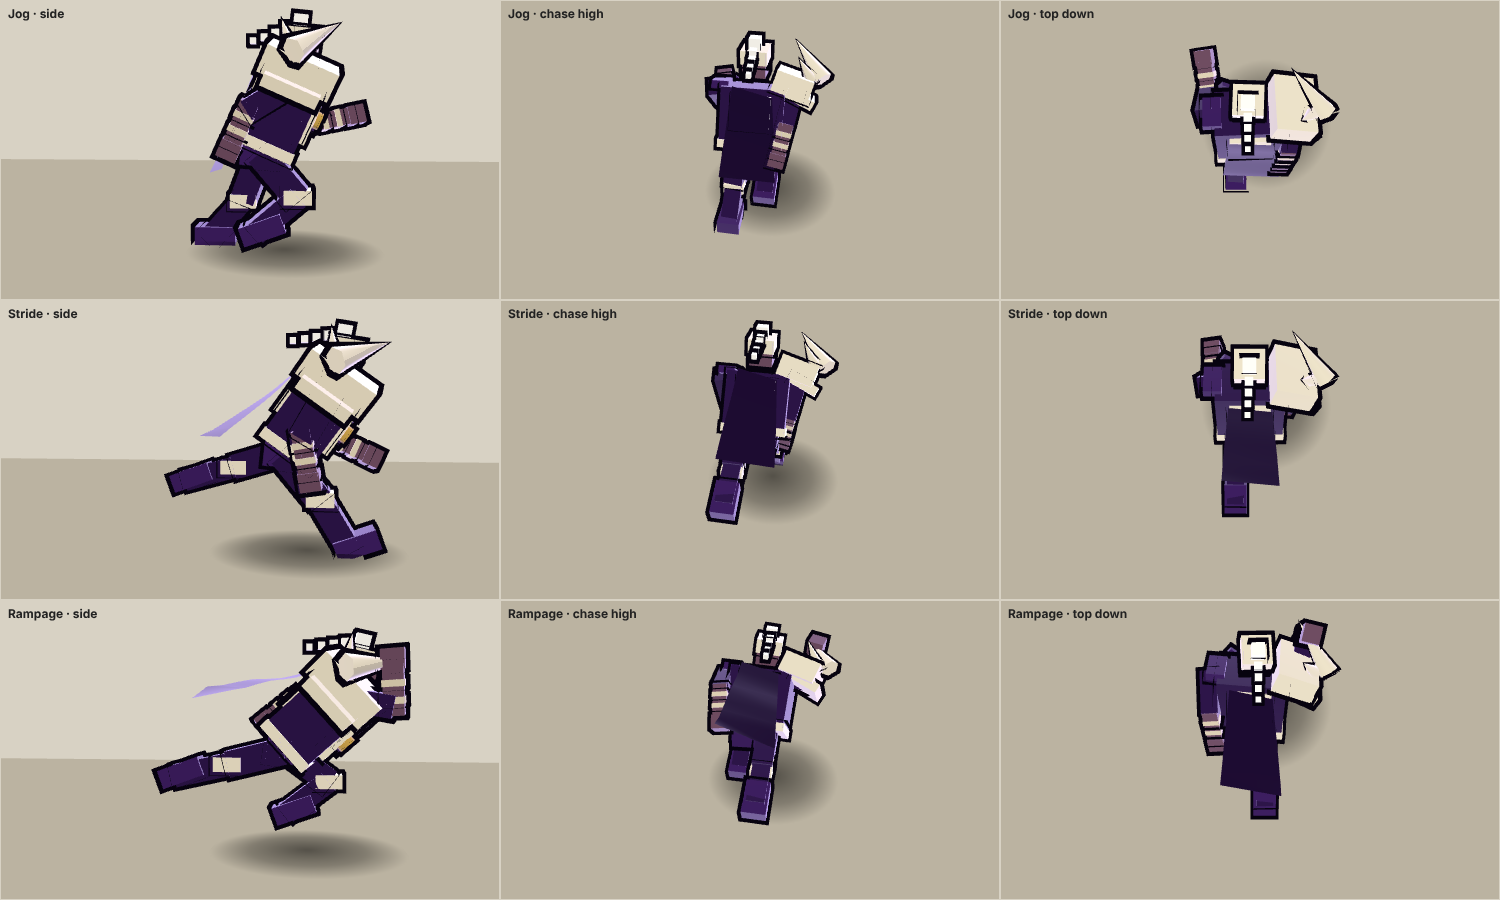
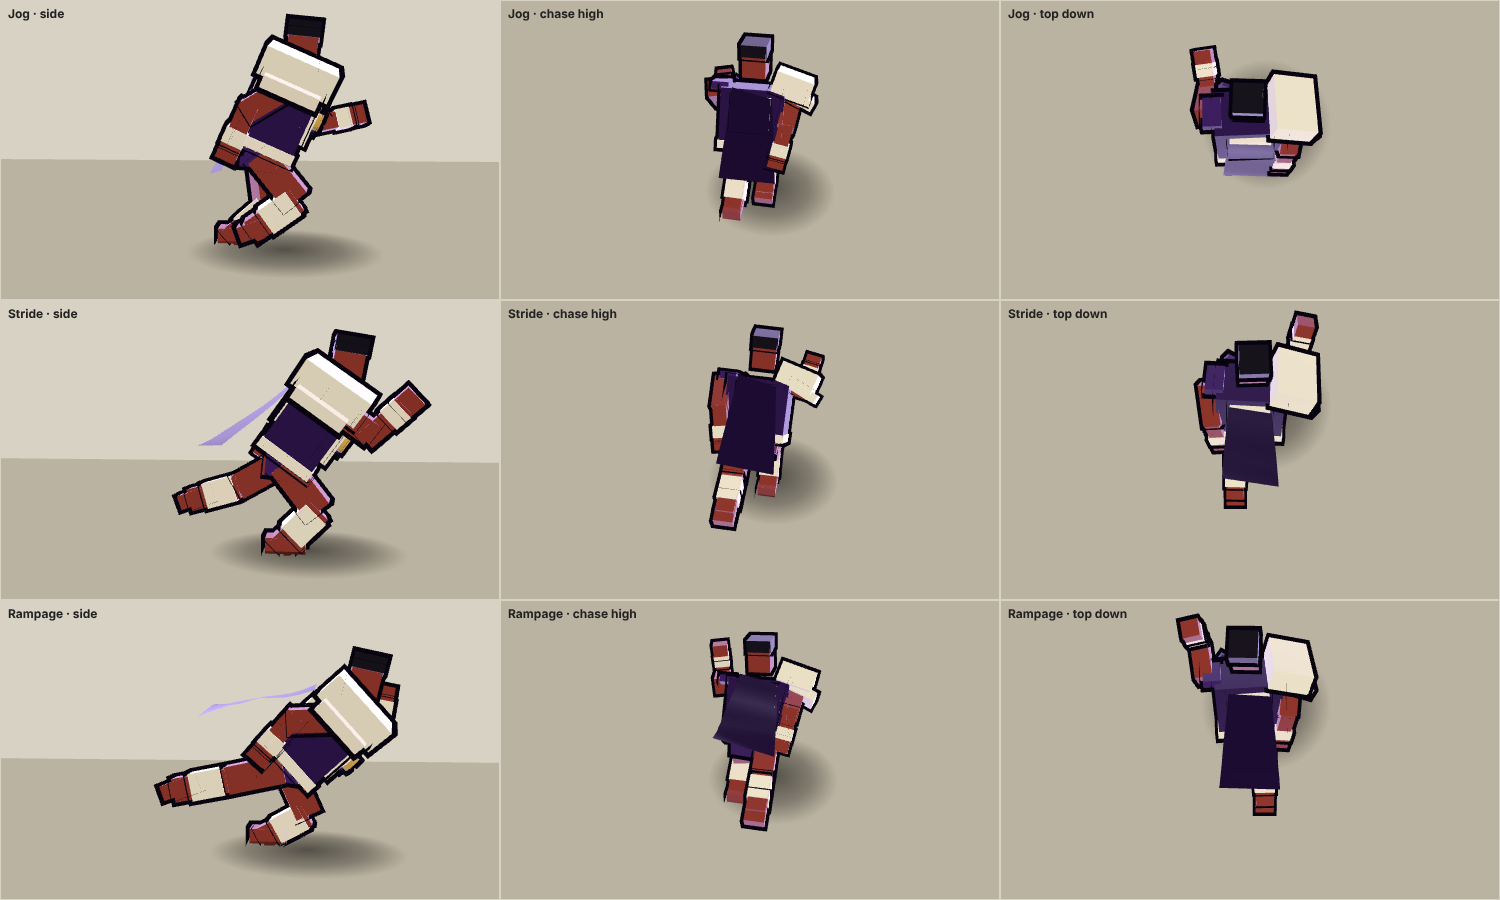
Chopper-feed title screen; giant recoloured to Mike's title art
Title: the live attract chase shot from behind and above with the giant in
the right third under the spotlight, GIANT wordmark, tagline, PRESS START
and a LIVE traffic-report bug with the real (invented) road name; the
camera glides into the chase on Start. Giant: red skin, black flat-top,
bare limbs, cream cuffs and greaves, bare feet, one smooth pauldron.

Claude-Session: https://claude.ai/code/session_01U6CEtzBnsd5sKqjjyRSivB

diff --git a/src/render/giant.ts b/src/render/giant.ts
@@ -102,7 +102,7 @@ export class GiantView {
     belt.position.y = 0.12;
     this.torso.add(chest, plate, back, belt);
 
-    // ONE horned pauldron (the top-down silhouette): a big plate over a lame, two horns sweeping back.
+    // ONE smooth pauldron (the top-down silhouette, Mike's title art): a big plate over a lame.
     const S = PAULDRON_SIDE;
     const pauldron = box(1.15, 0.44, 0.8, PALETTE.giantBone);
     pauldron.position.set(0, 1.46, S * 0.82);
@@ -110,12 +110,6 @@ export class GiantView {
     const lame = box(0.9, 0.2, 0.62, PALETTE.giantBone);
     lame.position.set(0, 1.18, S * 0.98);
     lame.rotation.x = S * 0.42;
-    const horn = new THREE.Mesh(new THREE.ConeGeometry(0.2, 1.1, 6), rimToon(PALETTE.giantBone));
-    horn.position.set(0.05, 1.98, S * 1.12);
-    horn.rotation.set(S * -0.7, 0, -0.45);
-    const horn2 = new THREE.Mesh(new THREE.ConeGeometry(0.13, 0.62, 6), rimToon(PALETTE.giantBone));
-    horn2.position.set(-0.38, 1.82, S * 1.05);
-    horn2.rotation.set(S * -0.55, 0, 0.6);
     // The bare shoulder carries only the cape strap.
     const pad = box(0.62, 0.16, 0.36, PALETTE.giantArmor);
     pad.position.set(0, 1.36, -S * 0.72);
@@ -126,23 +120,22 @@ export class GiantView {
     const clasp = new THREE.Mesh(new THREE.CylinderGeometry(0.15, 0.15, 0.09, 10), rimToon(PALETTE.giantClasp));
     clasp.rotation.z = Math.PI / 2;
     clasp.position.set(0.62, 0.86, S * 0.5);
-    this.torso.add(pauldron, lame, horn, horn2, pad, strap, clasp);
+    this.torso.add(pauldron, lame, pad, strap, clasp);
 
     // Arms: shoulder + elbow, so the run can hold a bent-arm guard (fists forward at the chest).
     for (const [arm, elbow, z] of [[this.armL, this.elbowL, 0.86], [this.armR, this.elbowR, -0.86]] as const) {
       arm.position.set(0, 1.25, z);
-      const upper = box(0.34, 0.85, 0.34, PALETTE.giantBody);
+      const upper = box(0.36, 0.85, 0.36, PALETTE.giantSkin);
       upper.position.y = -0.42;
       elbow.position.y = -0.85;
       const fore = box(0.3, 0.75, 0.3, PALETTE.giantSkin);
       fore.position.y = -0.25;
-      const band1 = box(0.33, 0.1, 0.33, PALETTE.giantBand);
-      band1.position.y = -0.1;
-      const band2 = band1.clone();
-      band2.position.y = -0.35;
+      // Cream wrist cuff (title art).
+      const band1 = box(0.36, 0.26, 0.36, PALETTE.giantBone);
+      band1.position.y = -0.45;
       const fist = box(0.34, 0.3, 0.34, PALETTE.giantSkin);
       fist.position.y = -0.7;
-      elbow.add(fore, band1, band2, fist);
+      elbow.add(fore, band1, fist);
       arm.add(upper, elbow);
       this.torso.add(arm);
     }
@@ -152,12 +145,11 @@ export class GiantView {
     this.torso.add(this.head);
     const skull = box(0.5, 0.55, 0.5, PALETTE.giantSkin);
     skull.position.y = 0.28;
-    const helm = box(0.56, 0.3, 0.56, PALETTE.giantBone);
-    helm.position.y = 0.45;
-    const knot = box(0.24, 0.26, 0.24, PALETTE.giantHair);
-    knot.position.set(-0.08, 0.72, 0);
-    this.head.add(skull, helm, knot);
-    for (let i = 0; i < 4; i++) {
+    // Black flat-top (title art); no helm, no braid.
+    const hair = box(0.54, 0.26, 0.54, PALETTE.giantHair);
+    hair.position.y = 0.6;
+    this.head.add(skull, hair);
+    for (let i = 0; i < 0; i++) {
       const b = box(0.15 - i * 0.015, 0.15 - i * 0.015, 0.15 - i * 0.015, PALETTE.giantHair);
       this.braid.push(b);
     }
@@ -169,10 +161,11 @@ export class GiantView {
       return new THREE.Mesh(g, rimToon(color));
     };
     for (let i = 0; i < 2; i++) {
-      const thigh = seg(0.44, PALETTE.giantBody);
-      const shin = seg(0.38, PALETTE.giantBody);
-      const knee = box(0.46, 0.24, 0.46, PALETTE.giantBone);
-      const boot = box(0.72, 0.32, 0.5, PALETTE.giantArmor);
+      const thigh = seg(0.46, PALETTE.giantSkin);
+      const shin = seg(0.4, PALETTE.giantSkin);
+      // Cream greave over the shin (title art); bare feet.
+      const knee = box(0.46, 0.55, 0.46, PALETTE.giantBone);
+      const boot = box(0.66, 0.26, 0.42, PALETTE.giantSkin);
       this.legs.add(thigh, shin, knee, boot);
       this.legParts.push({ thigh, shin, knee, boot });
     }
@@ -352,8 +345,9 @@ export class GiantView {
       const P = this.legParts[i];
       this.placeSegment(P.thigh, L.hip, L.knee);
       this.placeSegment(P.shin, L.knee, L.foot);
-      P.knee.position.set(L.knee.x, L.knee.y, L.knee.z);
-      P.knee.rotation.set(0, -p.heading, 0);
+      // The greave rides the upper shin, along it.
+      P.knee.position.set(L.knee.x + (L.foot.x - L.knee.x) * 0.38, L.knee.y + (L.foot.y - L.knee.y) * 0.38, L.knee.z + (L.foot.z - L.knee.z) * 0.38);
+      P.knee.quaternion.copy(P.shin.quaternion);
       P.boot.position.set(L.foot.x + Math.cos(p.heading) * 0.12, Math.max(0.16, L.foot.y + 0.06), L.foot.z + Math.sin(p.heading) * 0.12);
       P.boot.rotation.set(0, -p.heading, L.planted ? 0 : 0.35);
     }

diff --git a/src/game.ts b/src/game.ts
@@ -15,7 +15,7 @@ import { ViewerVideo } from './render/pip';
 import { Coverage } from './broadcast/coverage';
 import VIEWERS from './broadcast/viewers.json';
 import { measureSilhouette } from './render/silhouette';
-import { Newsroom, type Headline } from './broadcast/headlines';
+import { Newsroom, compass, type Headline } from './broadcast/headlines';
 import type { PropKind } from './sim/types';
 import { Gait } from './anim/gait';
 import { Audio } from './audio';
@@ -901,7 +901,7 @@ app = await createGameApp({
 });
 registerGlyphs(app.shell.production.glyphs);
 // Only what exists: no challenges or credits yet; the tagline is approved fiction (§21).
-app.ui.updateScreen('title', { subtitle: 'Giant At Large. Warn Your Friends.' });
+app.ui.updateScreen('title', { title: 'Giant', subtitle: 'Giant at large. Warn your friends.', choices: [{ id: 'start', label: 'Press Start' }] });
 app.ui.updateScreen('main-menu', { choices: [{ id: 'play', label: 'Play' }, { id: 'settings', label: 'Settings' }] });
 // Core settings drive the game: reduced motion, shake, vibration, volume.
 const applyCore = (c: CoreSettings) => {
@@ -1075,7 +1075,8 @@ function frame(now: number) {
     poseCam.position.set(t.x + rx * 9 + Math.cos(t.travel) * 0.5, 2.0, t.z + rz * 9 + Math.sin(t.travel) * 0.5);
     poseCam.lookAt(t.x + Math.cos(t.travel) * 0.5, 1.5, t.z + Math.sin(t.travel) * 0.5);
     renderer.render(scene, poseCam);
-  } else renderer.render(scene, rig.camera);
+  } else if (updateTitleShot(realDt, t)) renderer.render(scene, titleCam);
+  else renderer.render(scene, rig.camera);
   pip.render(renderer, scene);
   updateHud(realDt);
   updateGlyphs();
@@ -1108,6 +1109,51 @@ function updateGlyphs() {
     recapEl.dataset.fam = fam;
     hint.innerHTML = fam === 'touch' ? '' : `<kbd>${esc(glyph('move'))}</kbd> Move <kbd>${esc(glyph('accept'))}</kbd> Choose`;
   }
+}
+
+/**
+ * Title screen (Mike's chopper-feed direction): the attract broadcast behind the title is shot
+ * close from behind and above, the giant in the right third under the spotlight, the night look,
+ * a LIVE traffic-report bug. Leaving the title, the camera glides down into the chase.
+ */
+const titleCam = new THREE.PerspectiveCamera(TUNING.title.fov, 16 / 9, 0.5, 900);
+const titleTmp = { q: new THREE.Quaternion(), p: new THREE.Vector3(), m: new THREE.Matrix4(), up: new THREE.Vector3(0, 1, 0) };
+const titleBug = $('titlebug');
+const titleRoad = $('titleroad');
+let titleK = 0;
+let wasTitle = false;
+function updateTitleShot(dt: number, t: CameraTarget): boolean {
+  const T = TUNING.title;
+  const onTitle = attract && !!document.querySelector('#ui [data-screen-id="title"]');
+  document.documentElement.classList.toggle('title', onTitle);
+  if (onTitle !== wasTitle) {
+    wasTitle = onTitle;
+    if (onTitle) {
+      if (!forcedLook) lighting.setMode('night');
+    } else applyLook();
+  }
+  if (onTitle) {
+    titleK = 1;
+    const seg = sim.track.segmentAt(sim.giant.s);
+    titleRoad.textContent = `${seg.zoneName} ${compass(t.travel)}bound`;
+  } else titleK = Math.max(0, titleK - dt / T.glideTime);
+  titleBug.hidden = !onTitle;
+  if (titleK <= 0) return false;
+  // The shot, relative to his travel: behind, up, and off to his left, looking ahead past him.
+  const fx = Math.cos(t.travel), fz = Math.sin(t.travel);
+  const rx = -fz, rz = fx; // his right
+  const pos = titleTmp.p.set(t.x - fx * T.back - rx * T.left, T.height, t.z - fz * T.back - rz * T.left);
+  const look = new THREE.Vector3(t.x + fx * T.lookAhead - rx * T.lookLeft, T.lookHeight, t.z + fz * T.lookAhead - rz * T.lookLeft);
+  titleTmp.m.lookAt(pos, look, titleTmp.up);
+  const want = titleTmp.q.setFromRotationMatrix(titleTmp.m);
+  // Glide: ease from the chase camera to the title shot by titleK (1 = all title).
+  const k = titleK * titleK * (3 - 2 * titleK);
+  titleCam.position.lerpVectors(rig.camera.position, pos, k);
+  titleCam.quaternion.copy(rig.camera.quaternion).slerp(want, k);
+  titleCam.fov = rig.camera.fov + (T.fov - rig.camera.fov) * k;
+  titleCam.aspect = rig.camera.aspect;
+  titleCam.updateProjectionMatrix();
+  return true;
 }
 
 /** Render one frame now and measure the giant's silhouette (E2E / evidence). */

diff --git a/src/style.css b/src/style.css
@@ -337,3 +337,20 @@ html.attract #abilpop { display: none; }
 @keyframes gainpunch { 0% { transform: scale(1.25); } 100% { transform: none; } }
 html.attract #gainpop { display: none; }
 @media (prefers-reduced-motion: reduce) { #gainpop.show { animation: none; } }
+
+/* Title screen (Mike's chopper-feed direction): wordmark left, the live chase right, LIVE bug. */
+html.title #hud, html.title #abil, html.title #controls, html.title #camtag, html.title #btn-pause { display: none !important; }
+#ui [data-screen-id="title"].slu-screen { place-items: center start; padding: 0 0 0 clamp(20px, 7vw, 110px); background: linear-gradient(90deg, rgba(5, 3, 12, 0.88) 0%, rgba(5, 3, 12, 0.55) 38%, rgba(5, 3, 12, 0) 62%); }
+#ui [data-screen-id="title"] .slu-panel { background: none; border: 0; box-shadow: none; padding: 0; width: auto; max-width: min(92vw, 640px); overflow: visible; }
+#ui [data-screen-id="title"] .slu-header h1 { font: italic 900 clamp(84px, 17vw, 230px)/0.82 'Arial Black', 'Helvetica Neue', Impact, system-ui, sans-serif; letter-spacing: -0.03em; color: #f4ead6; text-transform: uppercase; margin: 0; transform: skewX(-6deg); text-shadow: 0 6px 30px rgba(0, 0, 0, 0.5); }
+#ui [data-screen-id="title"] .slu-header p { color: #f4ead6; opacity: 1; font-weight: 800; letter-spacing: 0.16em; text-transform: uppercase; font-size: clamp(12px, 1.6vw, 20px); margin: 14px 0 clamp(28px, 6vh, 64px) 4px; }
+#ui [data-screen-id="title"] .slu-choice { border: 0; background: none; padding: 0 0 0 4px; color: #f4ead6; }
+#ui [data-screen-id="title"] .slu-choice:hover, #ui [data-screen-id="title"] .slu-choice[data-focused="true"], #ui [data-screen-id="title"] .slu-choice:focus-visible { background: none; color: #f4ead6; outline: none; }
+#ui [data-screen-id="title"] .slu-choice-label { font-size: clamp(14px, 1.7vw, 22px); letter-spacing: 0.32em; animation: pressstart 1.6s ease-in-out infinite; }
+@keyframes pressstart { 50% { opacity: 0.35; } }
+@media (prefers-reduced-motion: reduce) { #ui [data-screen-id="title"] .slu-choice-label { animation: none; } }
+#titlebug { position: absolute; z-index: 45; top: calc(18px + env(safe-area-inset-top)); right: calc(22px + env(safe-area-inset-right)); display: grid; justify-items: end; gap: 2px; color: #f4ead6; font: 800 11px/1.2 ui-sans-serif, system-ui, sans-serif; letter-spacing: 0.14em; text-transform: uppercase; pointer-events: none; }
+#titlebug[hidden] { display: none; }
+#titlebug b { font-size: 24px; letter-spacing: 0.08em; display: flex; align-items: center; gap: 8px; padding-bottom: 6px; border-bottom: 1px solid rgba(244, 234, 214, 0.5); margin-bottom: 3px; }
+#titlebug b i { width: 15px; height: 15px; background: #d7263d; display: inline-block; }
+@media (max-width: 640px) { #ui [data-screen-id="title"].slu-screen { place-items: end start; padding-bottom: 12vh; background: linear-gradient(0deg, rgba(5, 3, 12, 0.9), rgba(5, 3, 12, 0) 70%); } }

diff --git a/src/tuning.ts b/src/tuning.ts
@@ -623,6 +623,19 @@ export const TUNING = {
     sirenHz: 2.2,
   },
 
+  /** Title screen chopper shot (Mike's visual direction): metres relative to the giant's travel. */
+  title: {
+    back: 14,
+    left: 6,
+    height: 12,
+    lookAhead: 7,
+    lookLeft: 6.5,
+    lookHeight: 1,
+    fov: 42,
+    /** Leaving the title, the camera glides down into the chase over this long (s). */
+    glideTime: 1.6,
+  },
+
   /** Input gestures (v0.3). */
   input: {
     /** Stick flick: crossing this x deflection fires one lane change; must return under release. */

diff --git a/index.html b/index.html
@@ -29,6 +29,7 @@
         <div id="chyron"><div class="kicker">SPOTTED</div><div class="text"><span>&nbsp;</span></div></div>
       </div>
       <div id="camtag" aria-hidden="true"></div>
+      <div id="titlebug" hidden aria-hidden="true"><b><i></i>LIVE</b><span>Traffic report</span><span id="titleroad"></span></div>
       <div id="controls" hidden aria-hidden="true"></div>
       <div id="abilpop" aria-live="polite"></div>
       <div id="abil" hidden aria-hidden="true"><b class="nm"></b><span class="key"></span><span class="cd"><i></i></span></div>

diff --git a/src/render/palette.ts b/src/render/palette.ts
@@ -39,8 +39,9 @@ export const PALETTE = {
   giantArmor: 0x3a1c5c,
   giantCape: 0x1c0b30,
   giantBone: 0xe6dcc3,
-  giantHair: 0xfaf7f0,
-  giantSkin: 0x6b4a5e,
+  giantHair: 0x16121a,
+  /** Mike's title-screen direction: red skin, black hair. */
+  giantSkin: 0x8a3329,
   giantBand: 0xd9ccb0,
   /** Model pass: the cape clasp under the pauldron, the one warm metal on him. */
   giantClasp: 0xc9a14a,

diff --git a/DECISIONS.md b/DECISIONS.md
@@ -4,6 +4,7 @@ Build-time decisions, working defaults for open questions (GDD §46), and deviat
 
 | Date | Decision | Why | Revisit |
 |---|---|---|---|
+| 2026-11-14 | **Chopper-feed title + giant recoloured to Mike's title art.** Title: the attract broadcast is shot close from behind and above (giant in the right third, night look, spotlight pool), "GIANT" wordmark, "Giant at large. Warn your friends.", a pulsing PRESS START, and a LIVE / TRAFFIC REPORT bug naming the road he's on (our invented zone names; the mockup's "I-608" reads like a real interstate, so it isn't used). Leaving the title, the camera glides into the chase over 1.6s. Numbers in `TUNING.title`. Giant: red skin (0x8a3329), black flat-top (no helm, topknot or braid), bare red arms and legs, cream wrist cuffs and greaves, bare feet, plum tunic and kilt, one smooth cream pauldron (**the horns are gone**, as in the art), clasp and strap kept. Silhouette test still passes (night Chase High 5.0:1). **Open:** is the game's name now "GIANT"? The title says GIANT; the repo, site and station stay Warn Your Friends / WYF until Mike says. Not done yet: the cape's cream Greek-key hem, the chopper silhouette in the corner. | Mike: "a Title Screen / Visual direction I think we should push for". | Mike |
 | 2026-11-14 | **Option B (Mike): the bulldozer is on.** `props.immovableChance` 0.2 from 250m, at most one per row, and rows still always leave a lane open. It bounces him at any tier (−1 tier, knock-back), so dodging matters at Rampage. Leap clears it; the Stare and Hijack ignore it. Bot: 2.4 bounces per run (was 1.7), Rampage share 41%, every seed reaches Rampage. **Camera fix:** in High Head-On at Rampage, the 15%-from-top framing rule and ≥2s of road ahead left no slack (soak min 1.90s), so High Head-On pulls out 110 → 122m (soak min back over 2s). E2E run check moved to seed 11: the dozer changed seed 10's road and the bot busted. Tier feed stays off. | Mike's call. | Mike's playtest |
 | 2026-11-14 | **Impact pass, feel only (option A built; B pending Mike).** Mike: hitting or dodging "doesn't have much impact". Causes found: (1) a smashed prop's view was deleted by `sync()` *before* its smash event ran, so cars vanished into a 0.1s debris puff; (2) Medium shake was 2px, the same as the footfall pulse; (3) dodging traffic scored nothing (near-misses were police-only); (4) design: driving straight reaches Rampage in ~5s, before the first prop row, and then smashes everything. **Built:** smashed cars and police units are swatted off his line as tumbling wrecks (slower forward than him, so he passes them; bounce, slide, rest, 10s); debris sprays sideways; he drives a shoulder into each smash and is thrown upright on a bounce. Impact scale: Medium 4f / 6px, Heavy 7f / 11px, bounce 7f / 10px, dodge 3px. **Dodge:** passing within 1.2m of something that would have bounced him scores a near-miss ("Close call", whoosh, ring). **Ratings pops** under the meter in viewers ("+93K"), merged within 0.6s. **Built but off:** the immovable bulldozer (`props.immovableChance`, 0.2 tested) and smash/dodge feeding the tier-up timer (`collision.tierFeed`). Both shifted a Head-On framing edge case (1.91–1.96s of road ahead), and slower tier-ups (3s/5s) busted 174/200 bot segments, so they were reverted. | Mike's playtest. | Mike: option B (dozer) |
 | 2026-11-14 | **Ideas parked for later (Mike: "fold them in as ideas"; all six to revisit, 3–5 approved after the core pass).** From Wild Riders: 1 smash-through shortcuts, 2 route forks, **3 stunt chains + recap grade**, **4 checkpoints that buy airtime**, **5 arcade camera swings on stunts**, 6 a lead to follow. From Rampage (Mike: keep the core and its absurdity, don't do too much): damage that stays (wrecks: built), smashable roadside landmarks that collapse (with #5 set pieces), cosmetic wear on the giant (scuffs, cape tatters; never gore). | Core first. | After the core pass |

diff --git a/CLAUDE.md b/CLAUDE.md
@@ -39,6 +39,8 @@ tools/shots-phase2.mjs  Phase 2 evidence: tells, zones, exit, recap
 tools/shots-phase3.mjs  Phase 3 evidence: each ability mid-action
 tools/modelsheet.mjs    giant turnaround (side / Chase High / top down × tiers), dev page in tools/modelsheet/
 tools/shots-model.mjs   model pass evidence: tiers in game, cape on a lane change, PS4 HUD
+tools/shots-title.mjs   title screen (desktop, phone, glide)
+tools/filmstrip.mjs     slow-motion strip of an impact (smash-heavy, bounce, bounce-immovable)
 ```
 
 ## Commands
